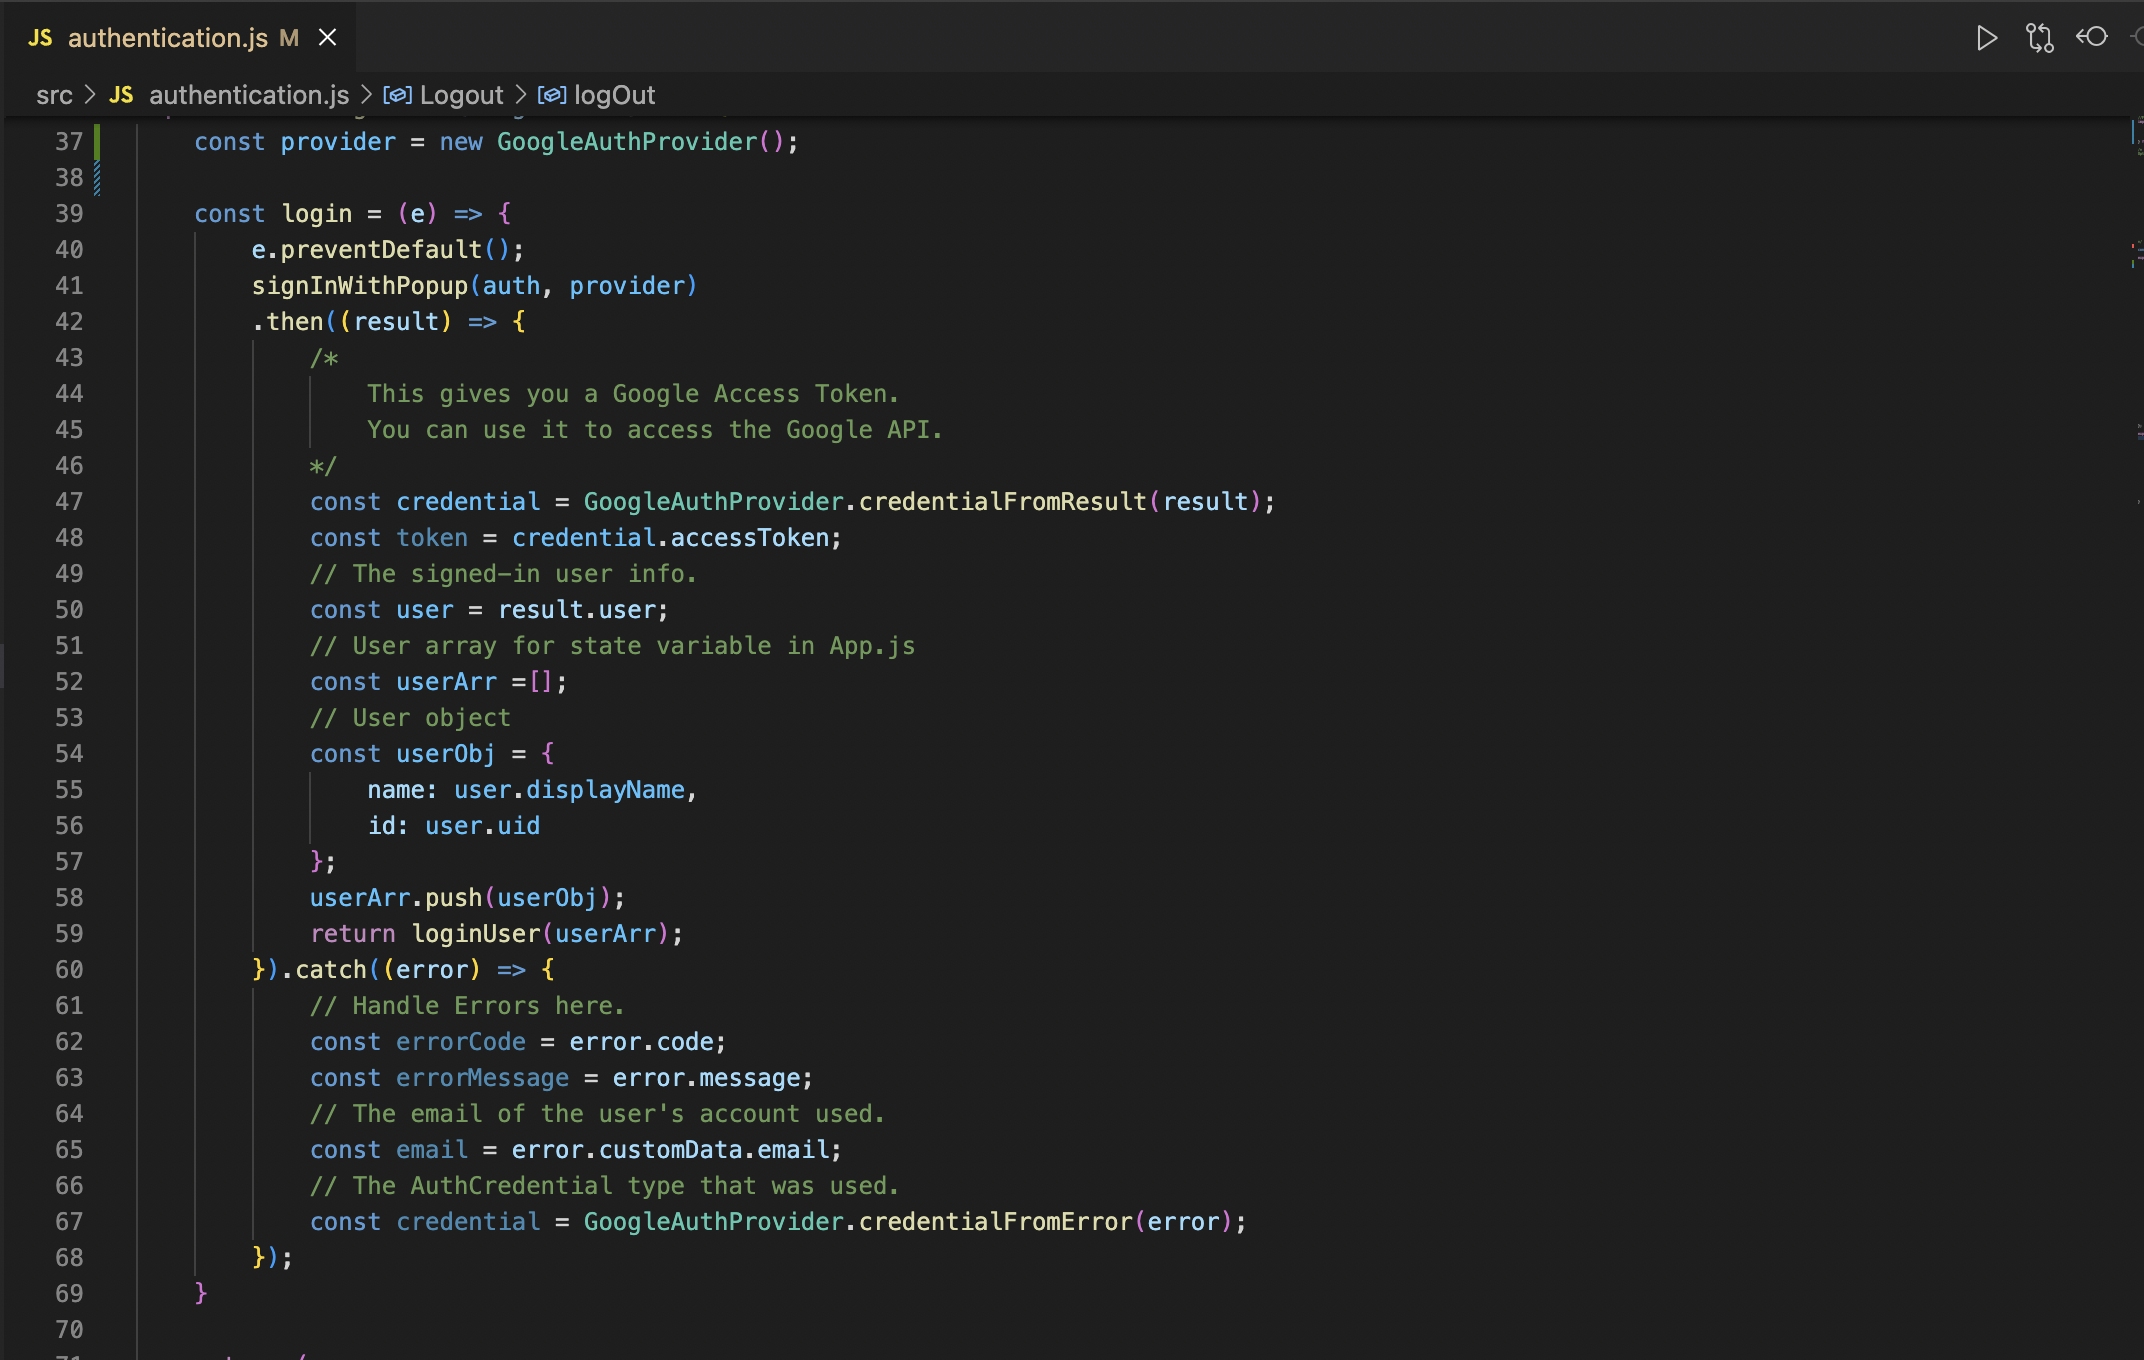
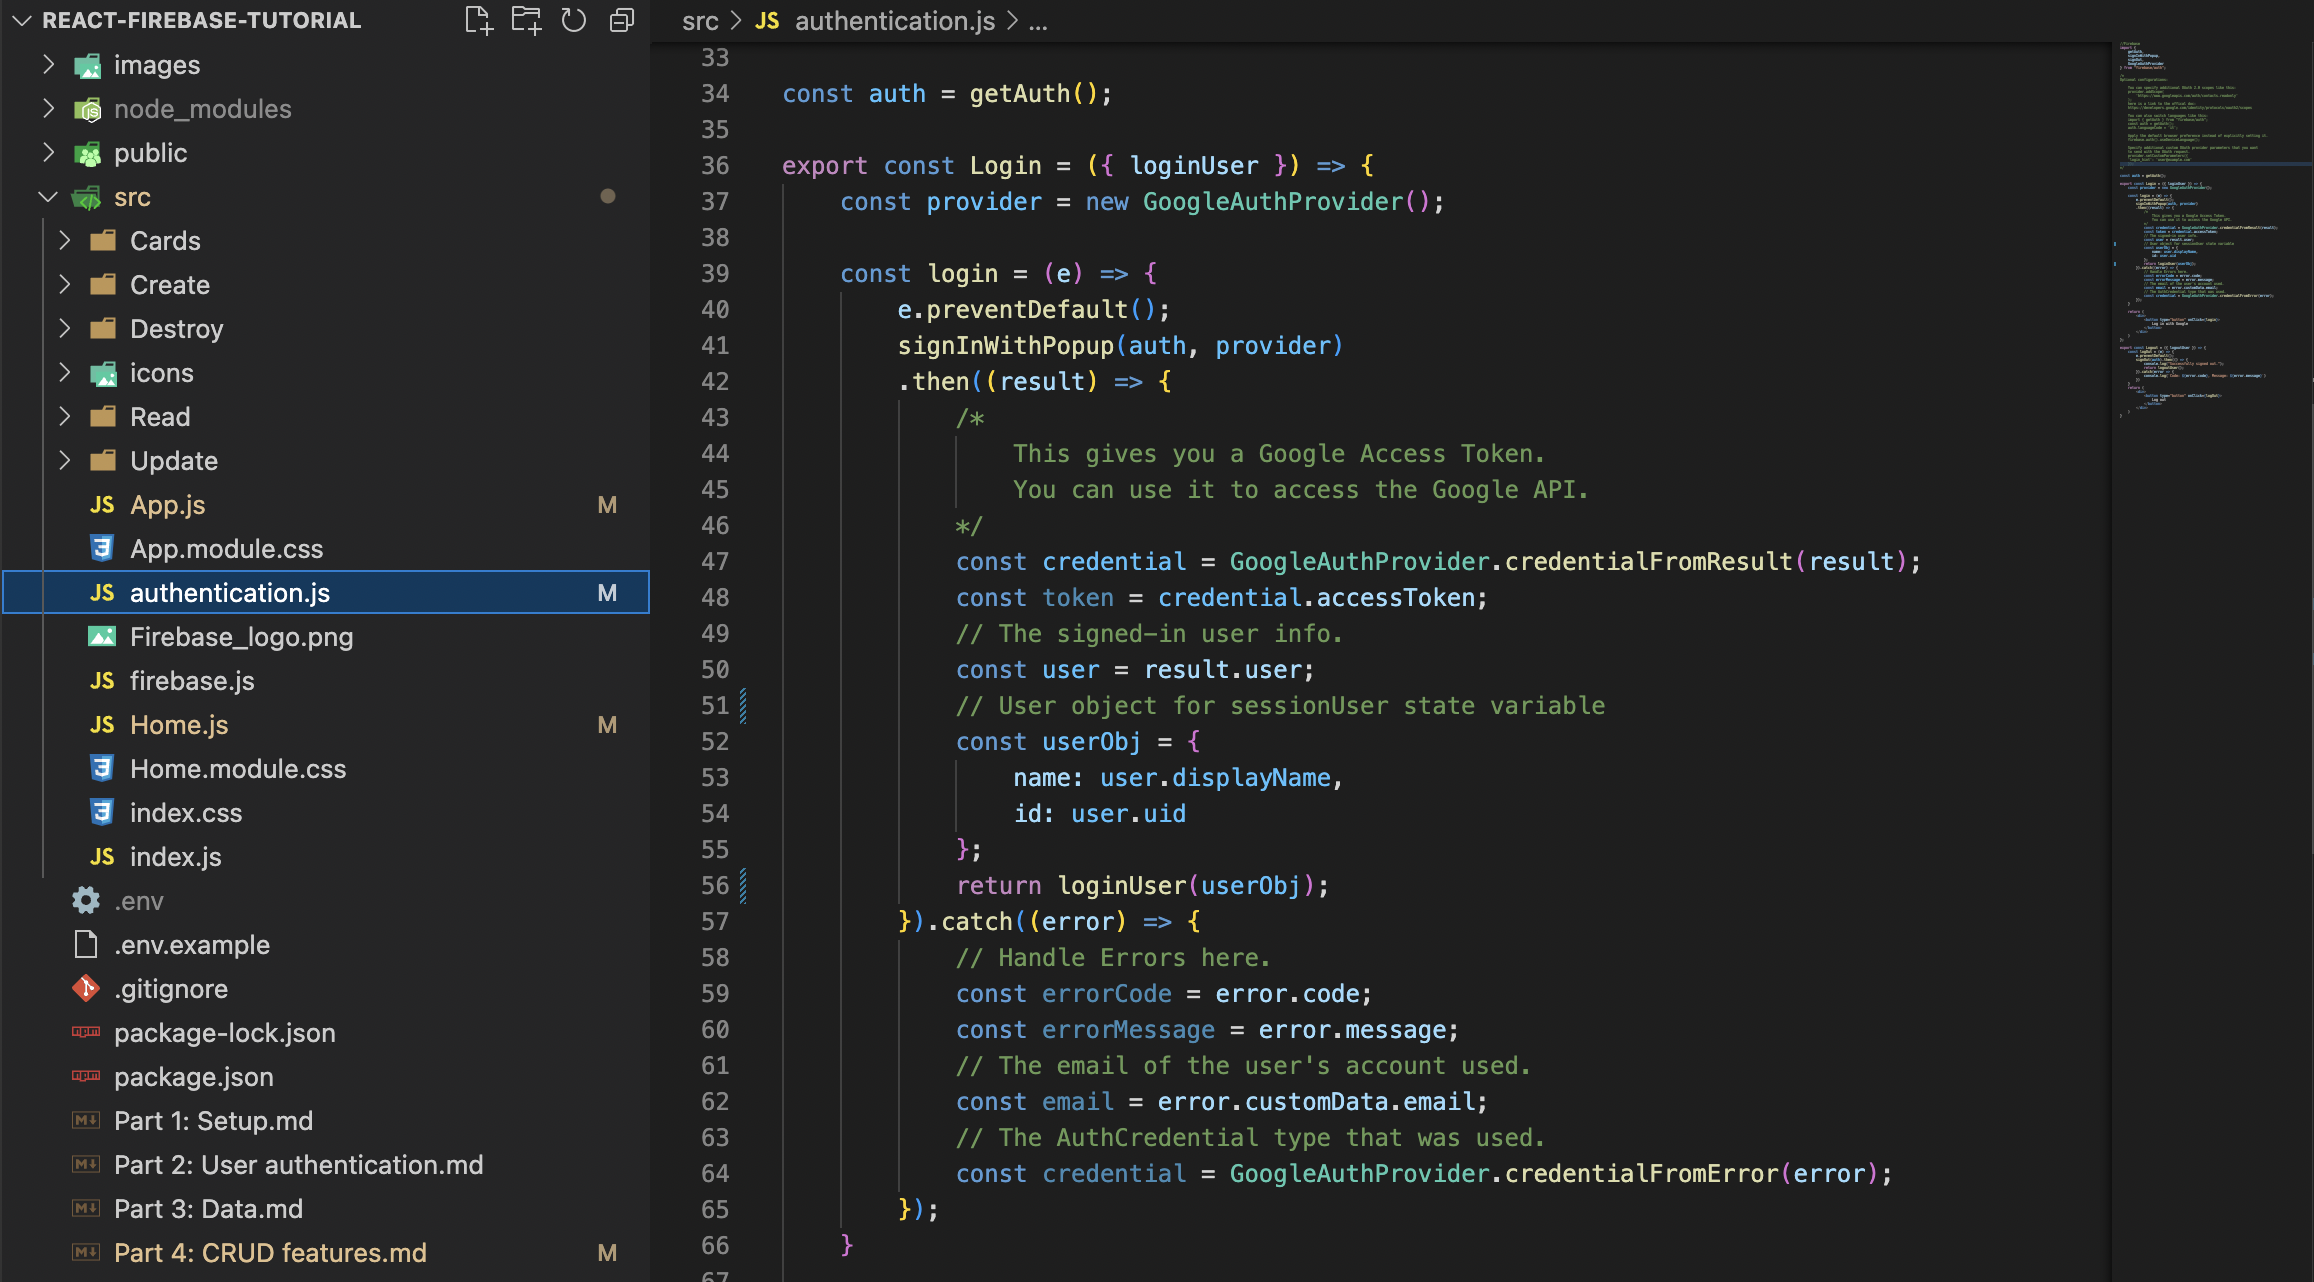
Fixed the session user object and passing ID to create now

diff --git a/src/Home.js b/src/Home.js
@@ -9,12 +9,13 @@ import styles from './Home.module.css';
 import Create from './Create';
 import Read from './Read';
 
-function Home({ feature, switchFeature }) {
-  const demoReference = collection(firestore, "demo_collection");
+function Home({ sessionUser, feature, switchFeature }) {
   const [loaded, setLoaded] = useState(false);
   const [fetching, setFetching] = useState(false);
   const [updated, setUpdated] = useState(false);
   const [retrievedData, setRetrievedData] = useState("");
+
+  const demoReference = collection(firestore, "demo_collection");
 
   useEffect(() => {
     const fetchData = async() => {
@@ -51,9 +52,12 @@ function Home({ feature, switchFeature }) {
 
   return (
     <div className={styles.app}>
+      <div>
+        <h1 className={styles.userInfo}>{`Hello ${sessionUser.name}!`}</h1>
+      </div>
       {fetching && <div>Loading...</div>}
       {!loaded && !fetching && feature === 'read' && <div>No data to show...</div>}
-      {!fetching && feature === 'create' && <Create dataUpdated={dataUpdated} switchFeature={switchFeature}/>}
+      {!fetching && feature === 'create' && <Create dataUpdated={dataUpdated} switchFeature={switchFeature} sessionUser={sessionUser}/>}
       {loaded && !fetching  && feature === 'read' && <Read dataUpdated={dataUpdated} retrievedData={retrievedData}/>}
     </div>
   );

diff --git a/src/Create/index.js b/src/Create/index.js
@@ -7,7 +7,7 @@ import styles from './Create.module.css';
 import { firestore } from "../firebase";
 import { addDoc, collection } from "@firebase/firestore";
 
-export default function Create({ dataUpdated, switchFeature }) {
+export default function Create({ sessionUser, dataUpdated, switchFeature }) {
     //Form input state variable
     const [text, setText] = useState("");
 
@@ -29,6 +29,7 @@ export default function Create({ dataUpdated, switchFeature }) {
         This one is very simple, but you could do something like:
 
         let trainingData = {
+            userId: sessionUser.id,
             eventType,
             description,
             url,
@@ -40,6 +41,7 @@ export default function Create({ dataUpdated, switchFeature }) {
         */
 
         let testData = {
+            userId: sessionUser.id,
             text,
             demo: true
         }

diff --git a/src/authentication.js b/src/authentication.js
@@ -48,15 +48,12 @@ export const Login = ({ loginUser }) => {
             const token = credential.accessToken;
             // The signed-in user info.
             const user = result.user;
-            // User array for state variable in App.js
-            const userArr =[];
-            // User object
+            // User object for sessionUser state variable
             const userObj = {
                 name: user.displayName, 
                 id: user.uid
             };
-            userArr.push(userObj);
-            return loginUser(userArr);
+            return loginUser(userObj);
         }).catch((error) => {
             // Handle Errors here.
             const errorCode = error.code;

diff --git a/src/App.js b/src/App.js
@@ -12,8 +12,8 @@ function App() {
     const [sessionUser, setSessionUser] = useState(null);
     const [feature, setFeature] = useState('read');
 
-    const loginUser = (userArr) => {
-        setSessionUser(userArr);
+    const loginUser = (userObj) => {
+        setSessionUser(userObj);
         return
     };
 

diff --git a/src/Home.module.css b/src/Home.module.css
@@ -29,3 +29,14 @@
   font-size: 32px;
   font-weight: bold;
 }
+
+.userBox {
+  display: flex;
+  width: 600px;
+  height: 50px;
+}
+
+.userInfo {
+  font-size: 24px;
+  font-weight: 600;
+}

diff --git a/Part 4: CRUD features.md b/Part 4: CRUD features.md
@@ -1,4 +1,4 @@
-# Welcome to Part 2: CRUD features!
+# Welcome to Part 4: CRUD features!
 <img src="./images/CRUD.png" alt="Icons representing CRUD features." width="700px"/>
 
 ---
@@ -6,22 +6,23 @@
 <br>
 
 # 1: Sending your first create (POST) request
-Sending data to your Firestore database from a React frontend is so simple it is truly wild. If you already have your own form, you are golden. If you just want to set up a quick test, then the ```Create``` directory's ```index.js``` file is ready to go.
+Sending data to your Firestore database from a React frontend is so simple it's truly wild. If you already have your own form, you are golden. If you just want to set up a quick test, then the ```Create``` directory's ```index.js``` file is ready to go.
 
 Basically, all you have to do is add these imports at the top of the file:
 - Fix the import if you have your form nested in a subdirectory within the ```src``` folder.
 - ```import { firestore } from "./firebase";```
 - ```import { addDoc, collection } from "@firebase/firestore";```
 
-In ```Part 1: Setup```, you just initialized firestore in the ```src``` folder's ```firebase.js``` file so that is a relative import. The ```addDoc()``` and ```collection()``` built-in methods are what we will be employing to define the collection name and send a POST request to Firestore.
+In ```Part 1: Setup```, you initialized a ```firestore``` or ```db``` variable in the ```src``` folder's ```firebase.js``` file so that is a relative import. The ```addDoc()``` and ```collection()``` built-in methods are what we will be employing to define the collection name and send a POST request to Firestore.
 
 --- 
 
 <br>
 
 ## Create a reference to pass to the addDoc() method.
-- You will invoke the imported collection() method within your functional component.
-- ```const reference = collection(firestore, "enter_a_name_here");```
+- Choose a a name for your new collection - it can be anything you want.
+- Next, invoke the collection() built-in method within your functional component.
+    - ```const reference = collection(firestore, "enter_a_name_here");```
 
 <br>
 
@@ -46,7 +47,7 @@ You should validate your data in the frontend as well, but this tutorial only in
 
 <br>
 
-## If you followed along successfully, you will see the following message get printed in your Google Chrome dev tools console:
+## If you submitted a message with the ```Create``` component provided to you, you will see the following message get printed in your Google Chrome dev tools console:
 
 <br>
 
